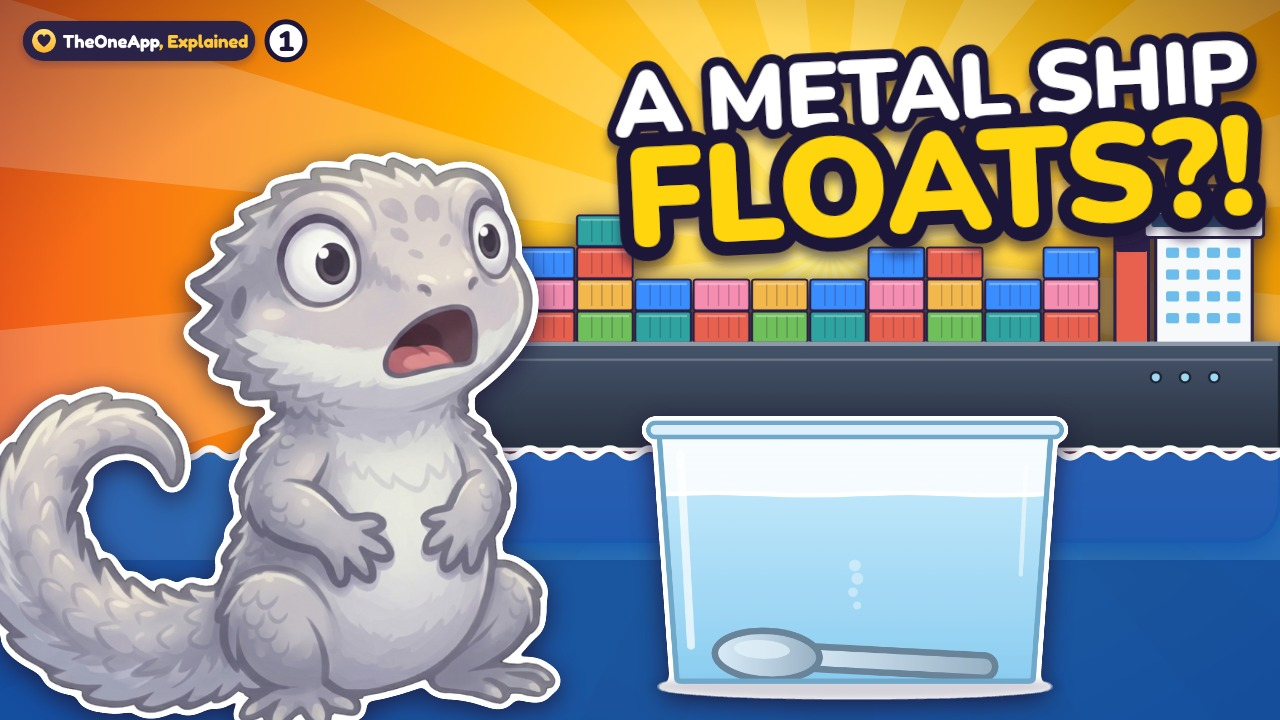
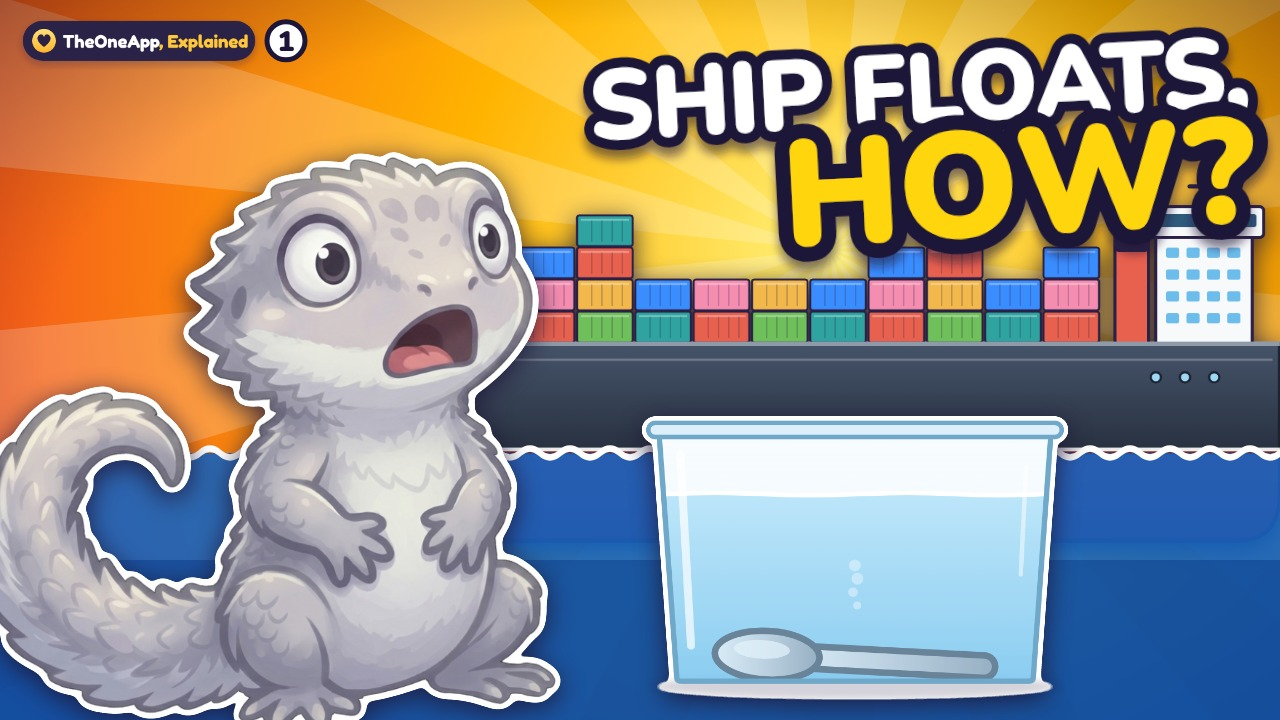
Thumbnail pilot: EP10 Part 1 words 'SHIP FLOATS, HOW?' (teacher's wording)
Claude-Session: https://claude.ai/code/session_017vcscXTweEdXk7zMTDrzTD

Changed region(s): [[0.4375, 0.0306, 1.0, 0.3972]]

diff --git a/production/workspace/explained2/thumb_v2.js b/production/workspace/explained2/thumb_v2.js
@@ -33,7 +33,7 @@ const THUMBS = {
         <path d="M0 453 ${Array.from({ length: 33 }, () => 'q10 -9 20 0 t20 0').join(' ')}" fill="none" stroke="#fff" stroke-width="6" stroke-linecap="round"/>` },
       { cut: 'tub', x: 640, y: 415, w: 430, line: '#fff', lw: 7, glow: INK },
       { buddy: 'basil_surprised', x: -40, y: 140, h: 610, line: '#fff', lw: 9, glow: INK } ],
-    words: [{ t: 'A METAL SHIP', x: 1250, y: 104, size: 92, fill: '#FFFFFF', rot: -3, anchor: 'end' }, { t: 'FLOATS?!', x: 1256, y: 214, size: 140, fill: '#FFD60A', rot: -3, anchor: 'end' }] },
+    words: [{ t: 'SHIP FLOATS,', x: 1250, y: 106, size: 100, fill: '#FFFFFF', rot: -3, anchor: 'end' }, { t: 'HOW?', x: 1256, y: 222, size: 150, fill: '#FFD60A', rot: -3, anchor: 'end' }] },
 
   ep09_2: { ep: 'ep09', part: 2, out: 'ep09/thumb_v2_part2.jpg', old: 'ep09/thumb_part2.jpg',
     bg: { c: ['#7CFFB2', '#12B76A', '#05603A'], at: [860, 420], rays: .2 },
